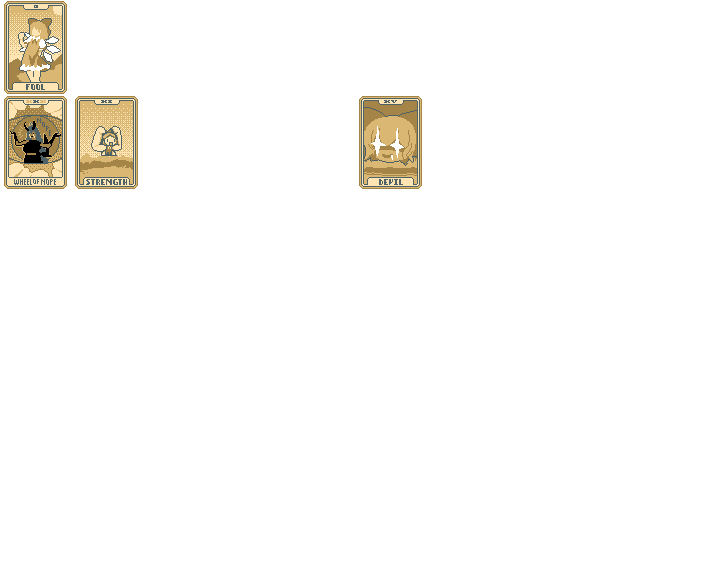
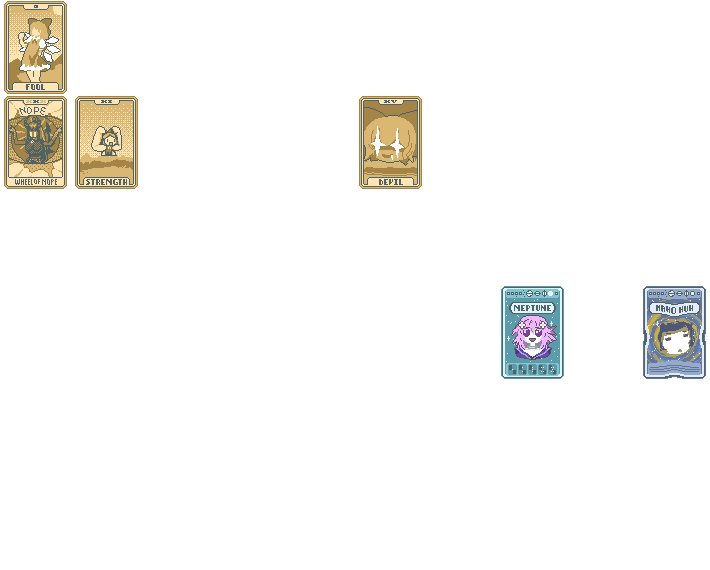
Semi-Major - Numerous Additions & Changes
Added Square Joker retexture.
Added Soul & Black Hole Spectral card retextures.
Changed Wheel of Nope (Wheel of Fortune) retexture.
Added Neptune retexture.

Expansion of vanilla replacement definitions to include planets and spectrals.

Refactored UI bullshit into its own directories (Belongs in the garbage imo. Can you tell I hate working with UI code?).

Changed region(s): [[0.8986, 0.4772, 1.0, 0.686], [0.6817, 0.4772, 0.8056, 0.686], [0.0, 0.1789, 0.093, 0.3281]]

diff --git a/README.md b/README.md
@@ -15,12 +15,14 @@ DaemonTsun's art contributions are public domain - Some memes or pictures are no
 
 **Cirno_TV & Friends** currently:
 - Retextures:
-  - 50 Jokers (3 filtered & 3 altered by the Mature Reference setting)
+  - 51 Jokers (3 filtered & 3 altered by the Mature Reference setting)
   - All Blind Chips
   - All seals
   - 3 Decks
   - 3 Booster Packs
   - 4 Tarots
+  - 2 Spectrals
+  - 1 PLanet
   - 1 Enhancement
   - The title screen
 
